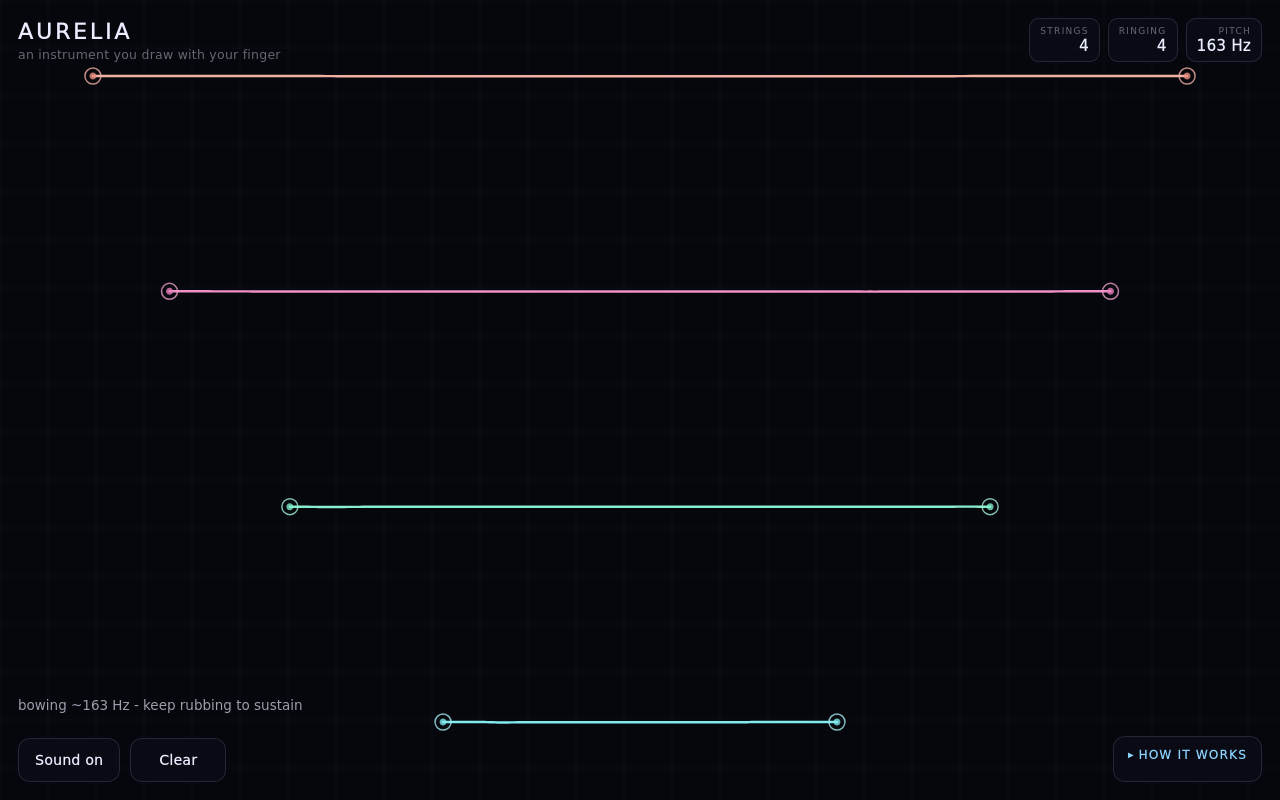
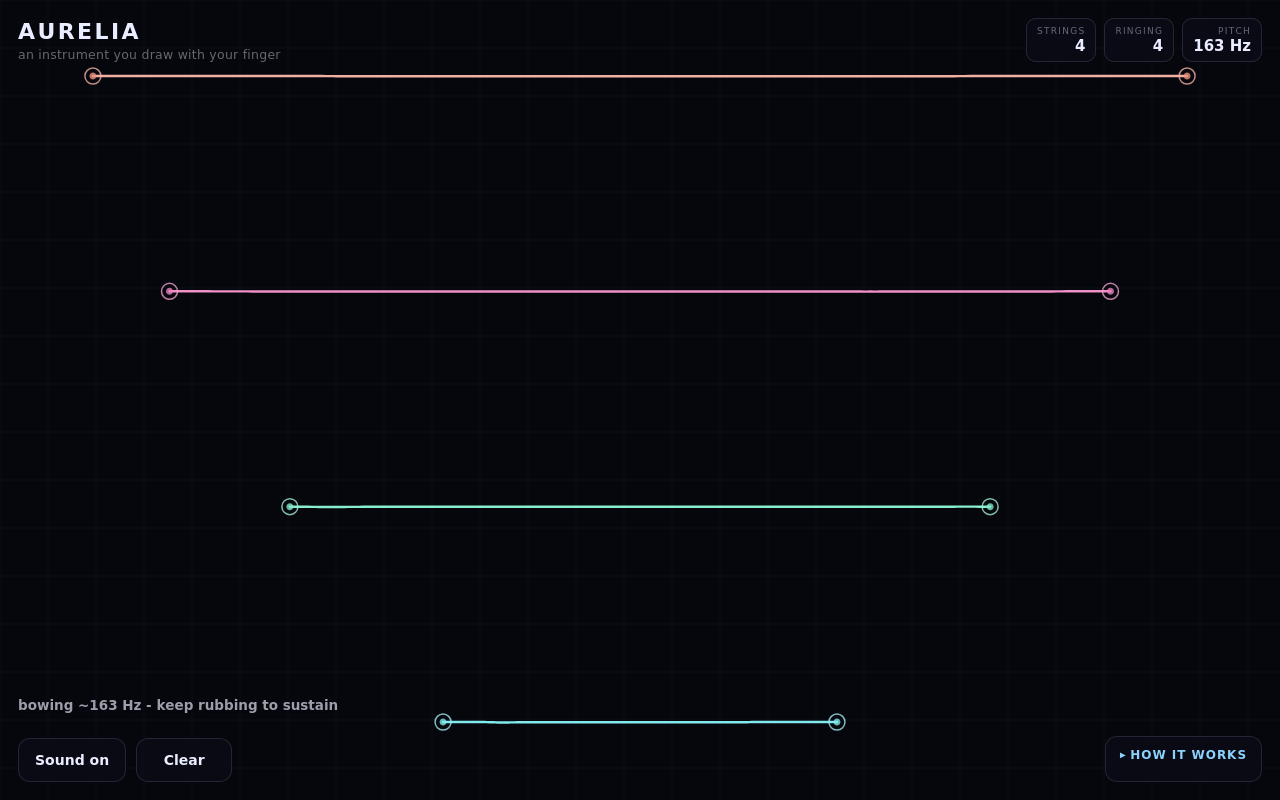
styles: stop the bottom controls overlapping on narrow phones
#controls is anchored bottom-left and #about bottom-right, with nothing between them, so their combined width alone decides whether they collide. At 390px they overlapped by 17px and the disclosure's border drew through the word "Clear"; at 360px by 47px.

Embedding a real bold is what surfaced it - a true bold face is wider than the synthetic one the browser had been drawing, so both labels grew at once. The defect predates this and no golden caught it, because the baselines are compared against themselves and neither side was ever checked for overlap.

The buttons give width rather than height: 96px was a choice, 44px is a finger. A 72px floor with 9px side padding fits the row inside 390px with 25px to spare, and a 380px breakpoint with a half-point smaller label clears 360px too. Stacking the two rows was tried first and rejected: it covers the lowest string and the status line, because the layout engine reserves chrome space from measured bands and a taller footer eats into the instrument.

tests/engines.test.mjs now boots the artifact at 360, 390 and 430px and asserts the two controls do not overlap and stay inside the viewport and above the 44px target. Verified by ablation: removing the button sizing reproduces "overlap by 17px" at 390px and "by 47px" at 360px. An #about width cap was tried and removed - the test showed it changed nothing.

Phone-portrait goldens regenerated; the other 12 are byte-identical, confirming desktop and landscape are untouched.

diff --git a/README.md b/README.md
@@ -32,7 +32,7 @@ The three verbs are listed in a panel on first load. It disappears once you make
 
 Sound starts on your first touch, because browsers require a user gesture before any audio may play.
 
-The layout is computed, not fixed, and it is tested at three viewports. On a phone in portrait the seeded instrument sits below the instruction panel rather than behind it; in landscape the panel collapses to the three verbs and keeps its own strip clear of the status line.
+The layout is computed, not fixed, and it is tested at three viewports. On a phone in portrait the seeded instrument sits below the instruction panel rather than behind it; in landscape the panel collapses to the three verbs and keeps its own strip clear of the status line. The bottom row - `Sound on`, `Clear`, `HOW IT WORKS` - is checked for overlap at 360, 390 and 430px, because those controls are anchored to opposite corners with nothing between them, and a label that grows by a few pixels is enough to draw one control through another.
 
 ![Portrait phone, first screen](docs/screens/phone-portrait-onboarding.png)
 ![Landscape phone, first screen](docs/screens/phone-landscape-onboarding.png)
@@ -47,6 +47,16 @@ node tools/build.mjs          # writes index.html from src/
 
 `src/` is split into the wave simulation (`sim.js`), the audio graph (`audio.js`), the app and layout (`app.js`), and the boot wiring (`boot.js`); `tools/build-lib.mjs` inlines them into one file and refuses to emit a bundle with a duplicate top-level binding.
 
+### The font is embedded, and that is not optional
+
+The artifact ships its own font: DejaVu Sans Regular and Bold, subset to the characters the page can draw, base64-encoded as WOFF2 inside the stylesheet (~21 KiB). It asks for that face by one family name, `"Aurelia Sans"`, and never consults the host.
+
+This is a correctness requirement, not a preference. The sheet used to ask for `ui-sans-serif, system-ui, "Segoe UI", Roboto, "DejaVu Sans", sans-serif` - a font the project does not control. CI's Firefox and the developer shell resolved that stack to different faces, glyph advances drifted, every line of text fell out of alignment, and all 18 golden screenshots failed at 0.6-4.5% while looking identical to the eye. Embedding also keeps the offline promise honest: a font resolved through fontconfig is an external dependency.
+
+Both weights are embedded because the sheet asks for 550-700. Shipping only Regular would make the browser synthesise a fake bold whose stem weight varies per engine, which is the same cross-machine drift wearing a different hat. This is visible in the screenshots: the button labels and the `4 strings ringing` status are now set in a real bold.
+
+Regenerate the subsets with `./tools/with-fonttools.sh`, which takes `pyftsubset` and `woff2_compress` from the pinned nixpkgs. It is the only part of the project that wants network, and the output is committed so that building and testing need neither network nor font tooling. `tests/build.test.mjs` fails if the faces go missing, if a weight is dropped, or if the stylesheet reaches for a system stack again.
+
 ## Checks
 
 The toolchain is pinned in `flake.nix` and `flake.lock` - Node, Playwright and its browsers - so a fresh machine and CI resolve exactly the same versions and no golden image can be repainted by a nixpkgs bump. Either form works:
@@ -60,7 +70,7 @@ nix-shell shell.nix --run ./check.sh  # same shell, pre-flake entry point
 
 1. **Build** the artifact, so tests never run against a stale `index.html`.
 2. **Syntax** - parse every source, tool and test file.
-3. **51 unit and interaction tests** - the wave physics, and the gestures: pluck versus bow versus mute, retuning, undo, cancelled pointers, multi-touch.
+3. **53 unit and interaction tests** - the wave physics, the gestures (pluck versus bow versus mute, retuning, undo, cancelled pointers, multi-touch), and the artifact's own promises: no network, no storage, and a font it owns.
 4. **Engine coverage** - boot and play the instrument in Firefox and Chromium, asserting the strings are visible and no page error or network request occurs. This is behavioural, not pixel-based: a second engine differs in font rasterisation, so comparing it to the Firefox baselines would fail for reasons unrelated to the app. Narrow the list with `./check.sh --engines firefox` where an engine cannot start at all.
 5. **18 golden screenshots** - three viewports by six states, compared against committed baselines.
 
